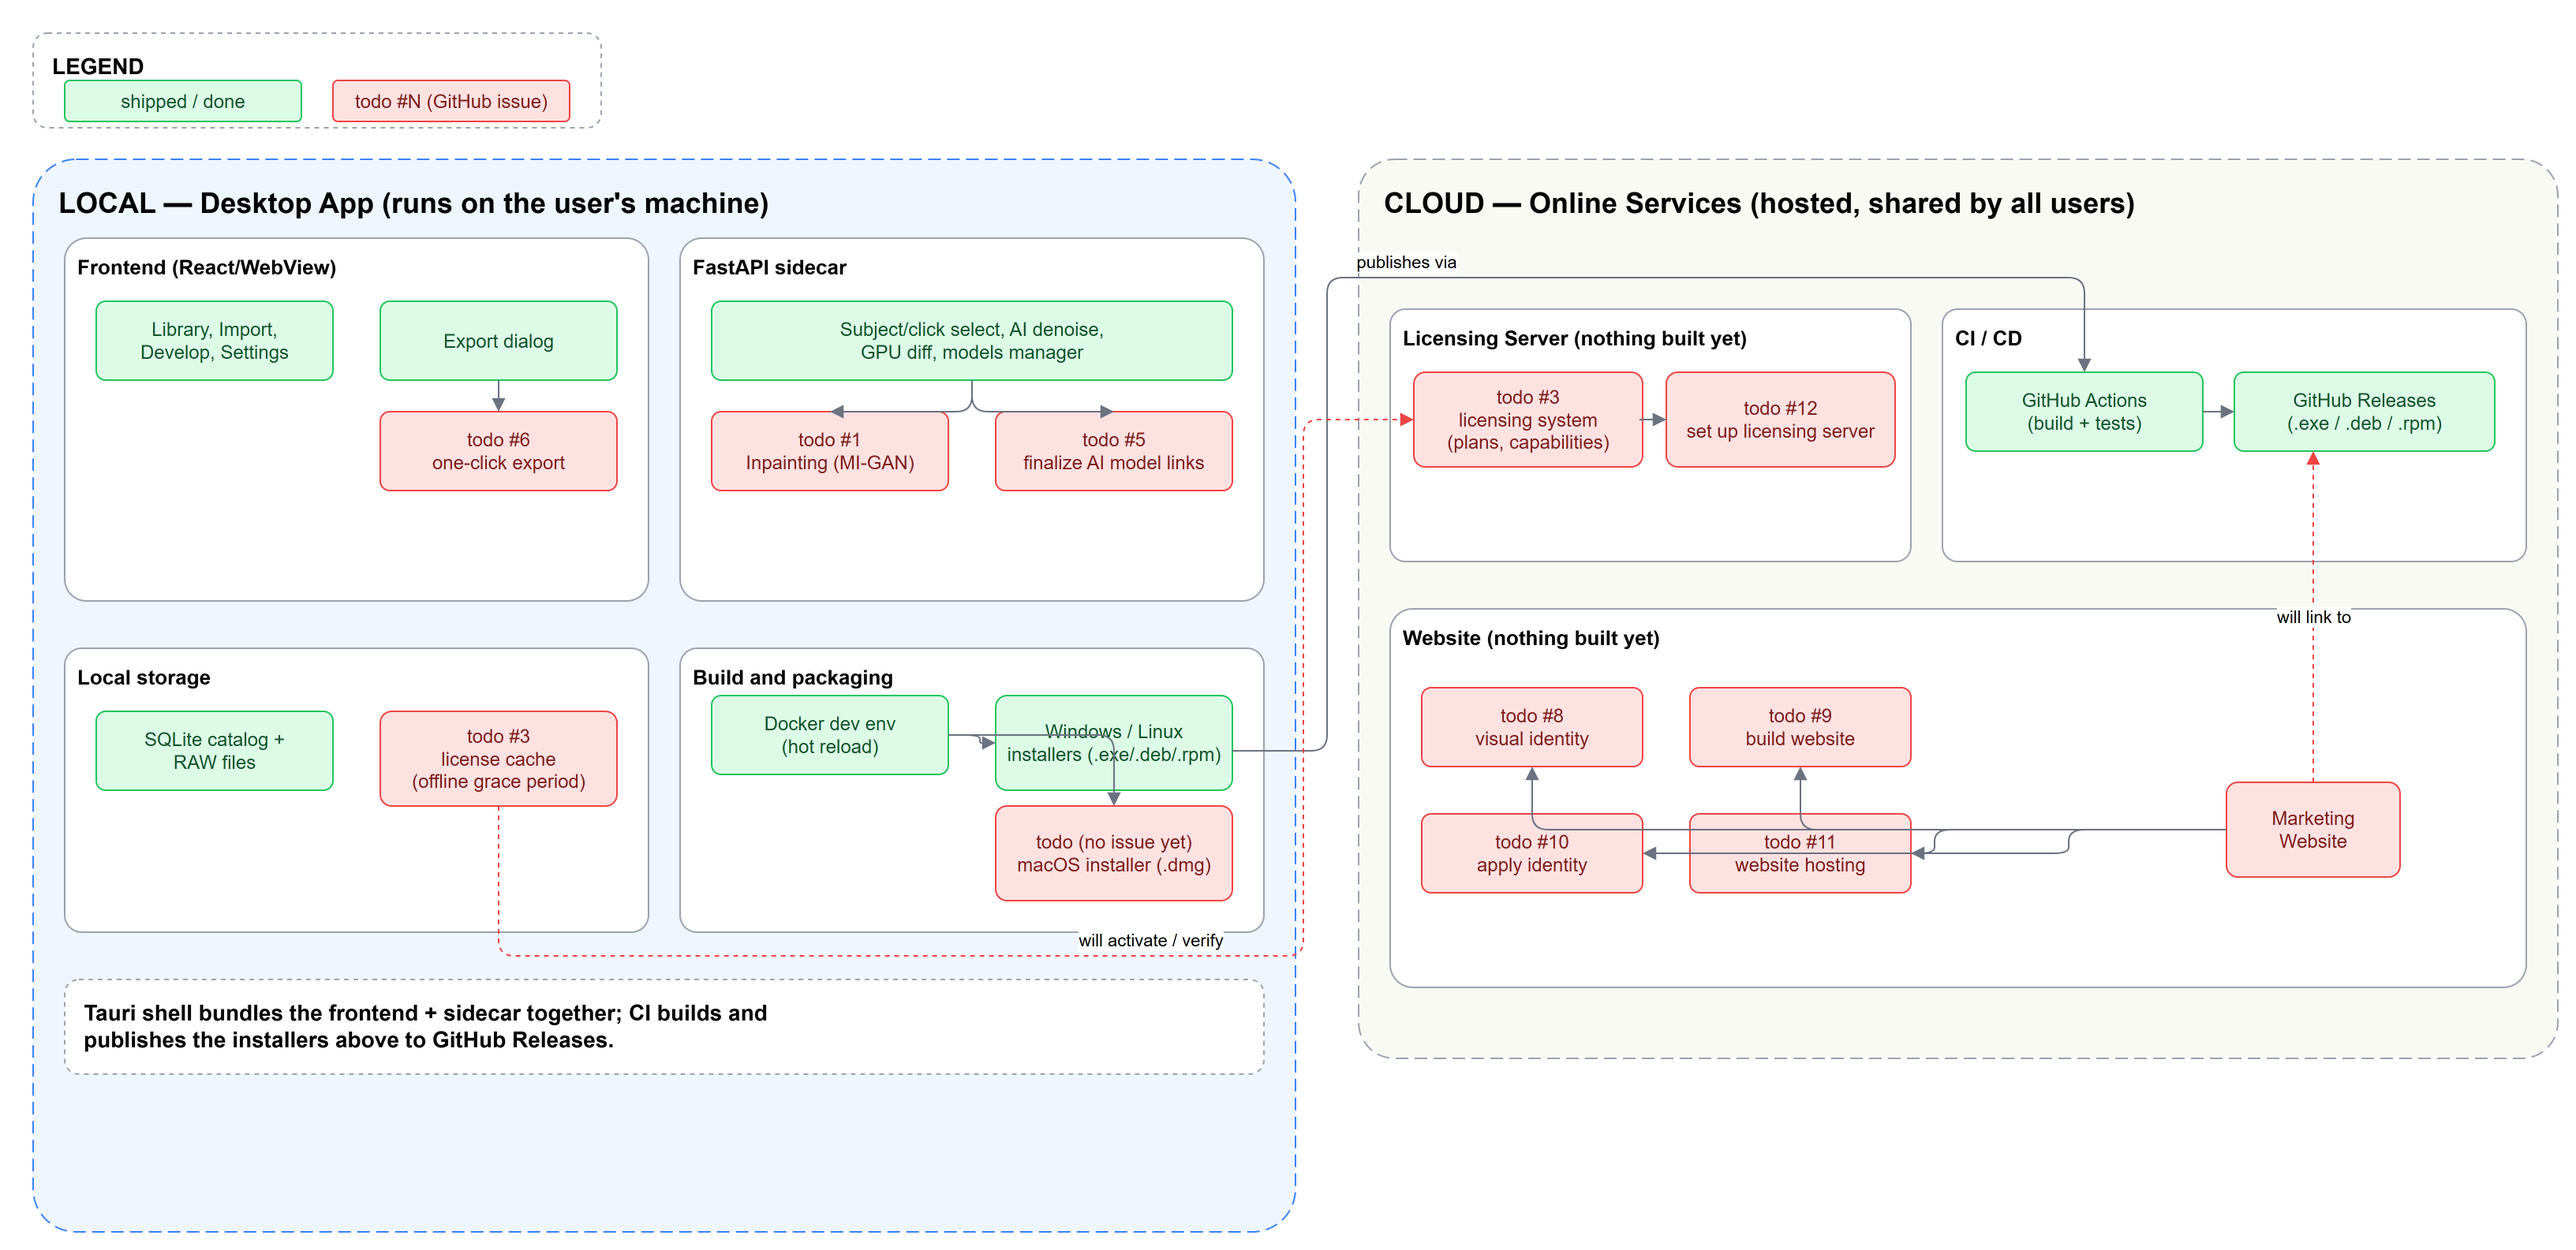
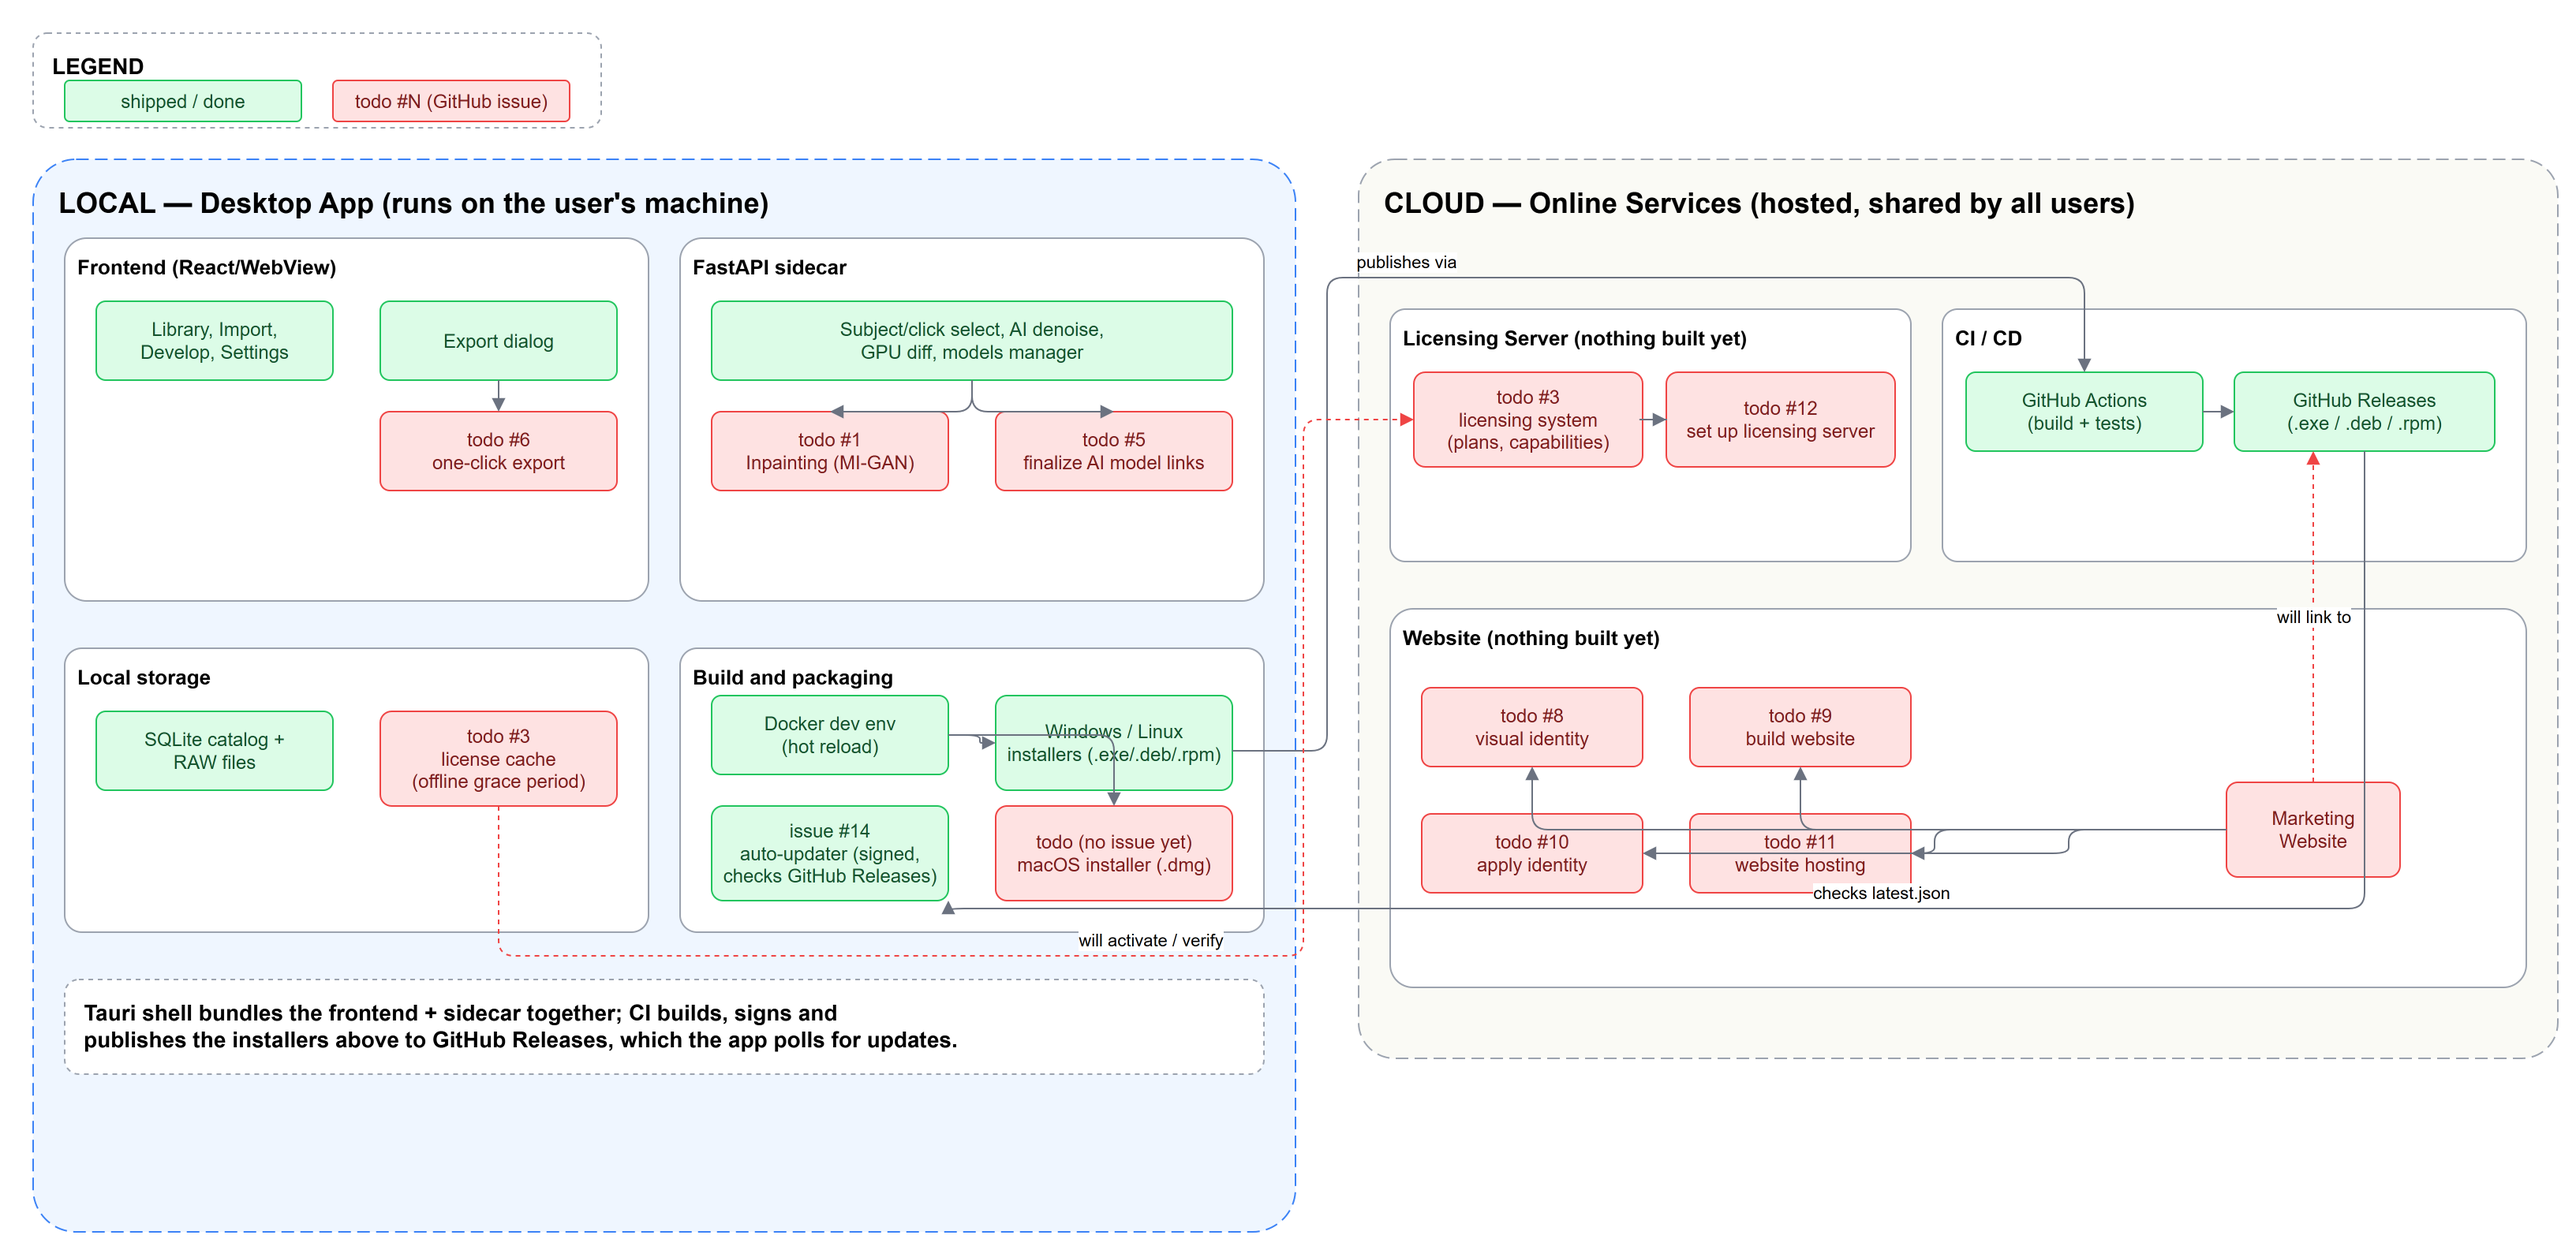
Diagramme d'infra : auto-updater (issue #14) marque comme livre

Changed region(s): [[0.2499, 0.6183, 0.3749, 0.742], [0.2499, 0.8038, 0.3749, 0.8347], [0.6873, 0.6801, 0.7498, 0.742]]

diff --git a/docs/infra_diagram.py b/docs/infra_diagram.py
@@ -89,11 +89,12 @@ vertex("Build and packaging", BOX, 450, 410, 370, 180)
 n_docker = vertex("Docker dev env\n(hot reload)", DONE, 470, 440, 150, 50)
 n_installers = vertex("Windows / Linux\ninstallers (.exe/.deb/.rpm)", DONE, 650, 440, 150, 60)
 n_mac = vertex("todo (no issue yet)\nmacOS installer (.dmg)", TODO, 650, 510, 150, 60)
+n_updater = vertex("issue #14\nauto-updater (signed,\nchecks GitHub Releases)", DONE, 470, 510, 150, 60)
 edge(n_docker, n_installers)
 edge(n_docker, n_mac)
 
 # ---- LOCAL / future note ----
-vertex("Tauri shell bundles the frontend + sidecar together; CI builds and\npublishes the installers above to GitHub Releases.", LEGEND, 60, 620, 760, 60)
+vertex("Tauri shell bundles the frontend + sidecar together; CI builds, signs and\npublishes the installers above to GitHub Releases, which the app polls for updates.", LEGEND, 60, 620, 760, 60)
 
 # ---- CLOUD / Licensing (placed FIRST/left, right next to the LOCAL/CLOUD
 # gap, since it's the one with a cross-boundary dependency on Local storage
@@ -130,6 +131,8 @@ edge(n_site, n_ghrel, "will link to", EDGE_FUTURE, waypoints=[(1485, 460), (1485
 edge(n_installers, n_gha, "publishes via", EDGE, waypoints=[(860, 475), (860, 175), (1340, 175)], label_dx=-40, label_dy=-10)
 edge(n_cache, n_design, "will activate / verify", EDGE_FUTURE,
      waypoints=[(335, 605), (845, 605), (845, 265)], label_dx=0, label_dy=-10)
+edge(n_ghrel, n_updater, "checks latest.json", EDGE,
+     waypoints=[(1517, 285), (1517, 575), (620, 575)], label_dx=0, label_dy=-10)
 
 tree = ET.ElementTree(mxfile)
 ET.indent(tree, space="  ")

diff --git a/docs/infra-architecture.md b/docs/infra-architecture.md
@@ -28,7 +28,7 @@ python docs/infra_diagram.py
 - Frontend (React/WebView) : Library, Import, Develop, Settings, Export ✅ ; export en un clic (#6) à faire.
 - Sidecar FastAPI : sélection sujet/clic, débruitage IA, diff GPU, gestion des modèles ✅ ; inpainting MI-GAN (#1) et finalisation des liens de modèles (#5) restent à faire.
 - Stockage local : catalogue SQLite + RAW ✅ ; cache de licence hors-ligne pas encore implémenté (fait partie de #3).
-- Build & packaging : Docker dev env, installeurs Windows/Linux ✅ ; installeur macOS (.dmg) pas encore fait — pas d'issue GitHub dédiée pour l'instant.
+- Build & packaging : Docker dev env, installeurs Windows/Linux, auto-updater signé qui interroge GitHub Releases (#14) ✅ ; installeur macOS (.dmg) pas encore fait — pas d'issue GitHub dédiée pour l'instant.
 
 ## Cloud — Online Services
 
